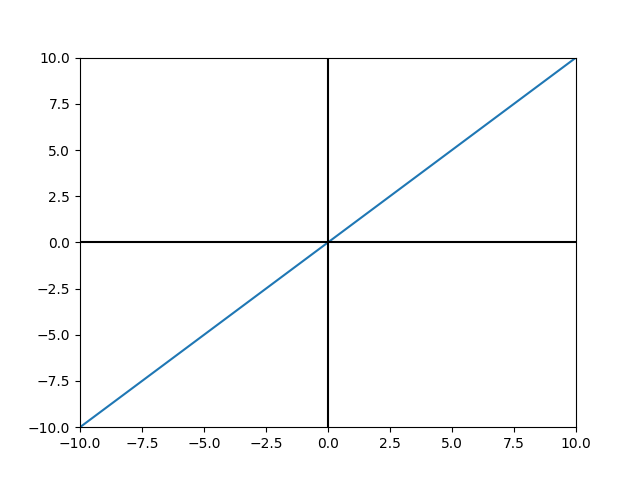
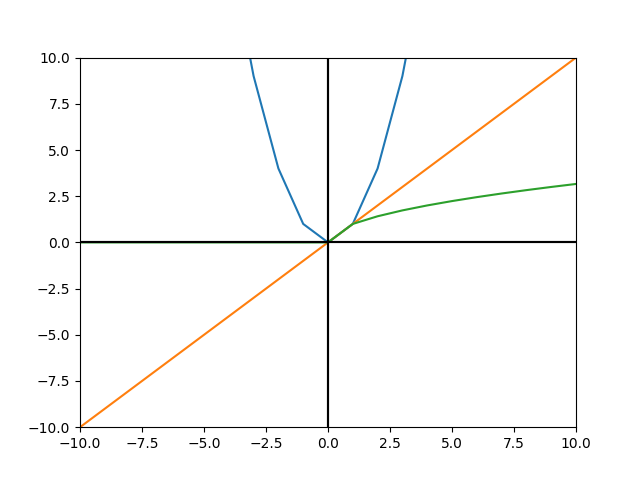
bugs

diff --git a/plugins/user_commands/limites.py b/plugins/user_commands/limites.py
@@ -8,33 +8,55 @@ async def startComando(client, message):
     user_name = message.from_user.username
     user_id = message.from_user.id
 
-    mensaje_usuario = message.text[len('/graficar'):]
+    funciones = []
+    mensaje_usuario = message.text[len('/graficar') + 1:]
     mensaje = await filtrarMensaje(mensaje_usuario)
+    for funcion in mensaje:
+        funciones.append(funcion)
+    print(f'mensaje final: {mensaje}')
+    print(f'funciones: {funciones}')
     graficador = Graficador()
-    graficador.graficar(*mensaje)
+    graficador.graficar(*funciones)
 
 
     return await message.reply_photo('output.png')
 
+# async def filtrarMensaje(mensaje):
+#     print(type(mensaje))
+#     mensaje = [funcion.replace(' ', '') for funcion in mensaje]
 
-async def filtrarMensaje(mensaje):
-    print(type(mensaje))
-    mensaje = [funcion.replace(' ', '') for funcion in mensaje]
+#     mensaje_nuevo = ""
+#     for index, caracter in enumerate(mensaje):
+#         if caracter.isdigit() and index + 1 < len(mensaje) and mensaje[index + 1] == 'x':  # Evitar IndexErrors
+#             mensaje_nuevo += caracter + "*x"
+#         else:
+#             mensaje_nuevo += caracter
 
-    mensaje_nuevo = ""
-    for index, caracter in enumerate(mensaje):
-        if caracter.isdigit() and index + 1 < len(mensaje) and mensaje[index + 1] == 'x':  # Evitar IndexErrors
-            mensaje_nuevo += caracter + "*x"
-        else:
-            mensaje_nuevo += caracter
-    if '&' in mensaje_nuevo:
-        mensaje_nuevo = [funcion.split('&') for funcion in mensaje_nuevo]
-    mensaje_nuevo = [funcion.replace(' ', '') for funcion in mensaje_nuevo]
-    mensaje_nuevo = [funcion.replace('^', '**') for funcion in mensaje_nuevo]
-    mensaje_nuevo = [funcion.replace('sqrt', 'np.sqrt') for funcion in mensaje_nuevo]
-    #mensaje = [funcion.replace('+*', '+') for funcion in mensaje]
-    print(type(mensaje_nuevo))
-    return mensaje_nuevo
+#     print(f'mensaje: {mensaje_nuevo}')
+#     mensaje_nuevo = [funcion.replace(' ', '') for funcion in mensaje_nuevo]
+#     mensaje_nuevo = [funcion.replace('^', '**') for funcion in mensaje_nuevo]
+#     mensaje_nuevo = [funcion.replace('sqrt', 'np.sqrt') for funcion in mensaje_nuevo]
+#     #mensaje = [funcion.replace('+*', '+') for funcion in mensaje]
+#     mensaje_nuevo = ''.join(mensaje_nuevo)
+#     mensaje_nuevo.split('&')
+#     print(type(mensaje_nuevo))
+#     print(f'mensaje_nuevo: {mensaje_nuevo}')
+#     return mensaje_nuevo
 
 async def borrarImg():
     os.remove('output.png')
+
+
+async def filtrarMensaje(mensaje):
+    if '^' in mensaje:
+        mensaje = mensaje.replace('^', '**')
+    if 'sqrt' in mensaje:
+        mensaje = mensaje.replace('sqrt', 'np.sqrt')
+    if ' ' in mensaje:
+        mensaje = mensaje.replace(' ', '')
+    if '&' in mensaje:
+        mensaje = mensaje.split('&')
+    else:
+        mensaje = [mensaje]
+    return mensaje
+
